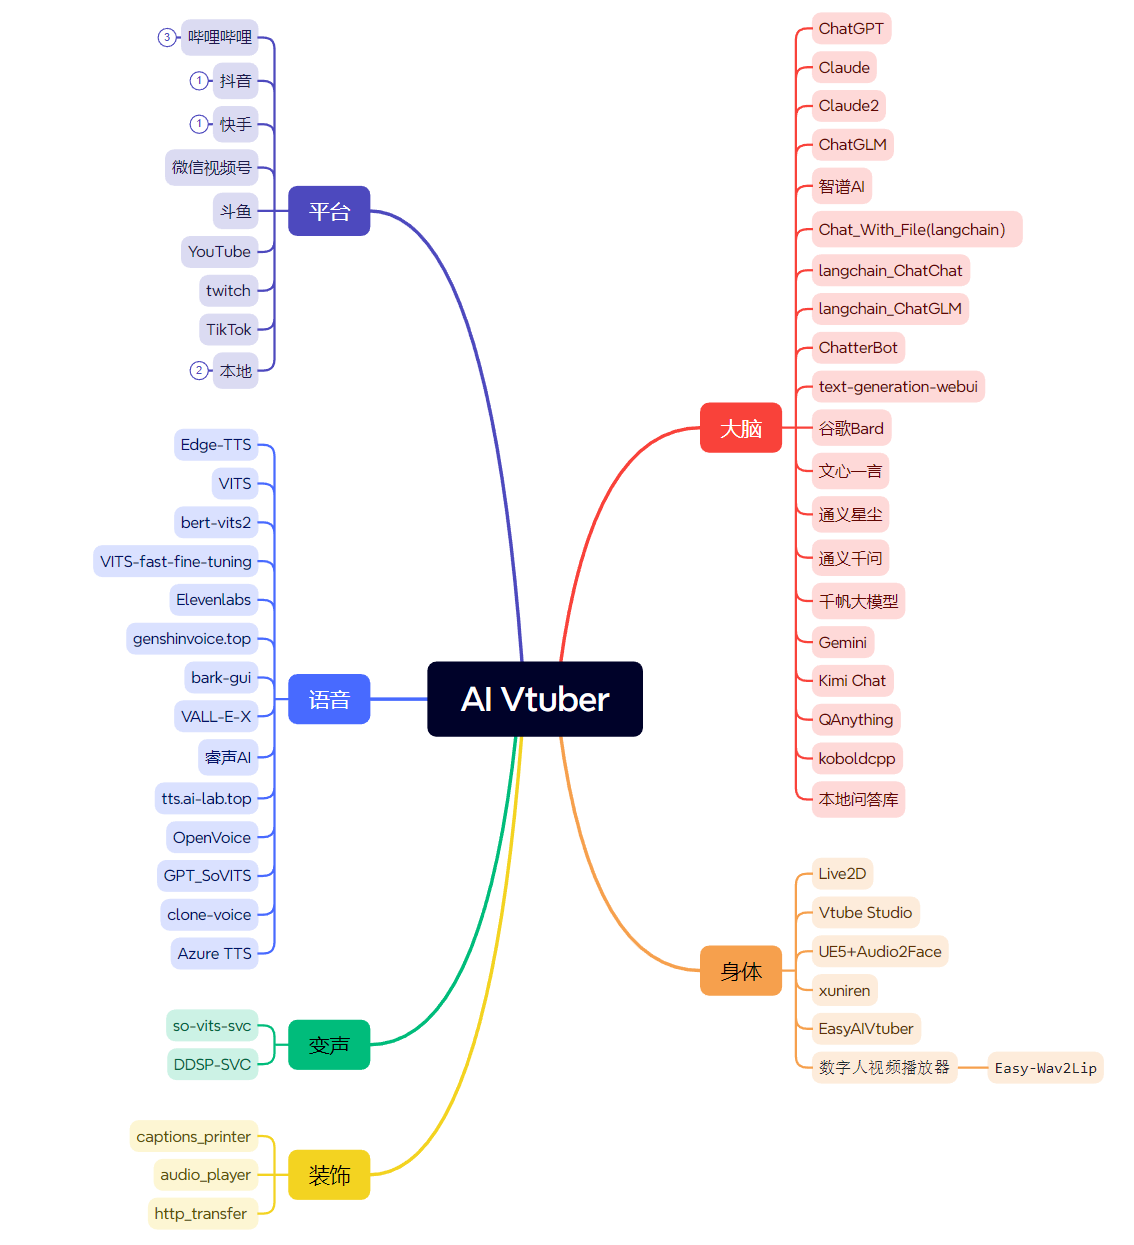
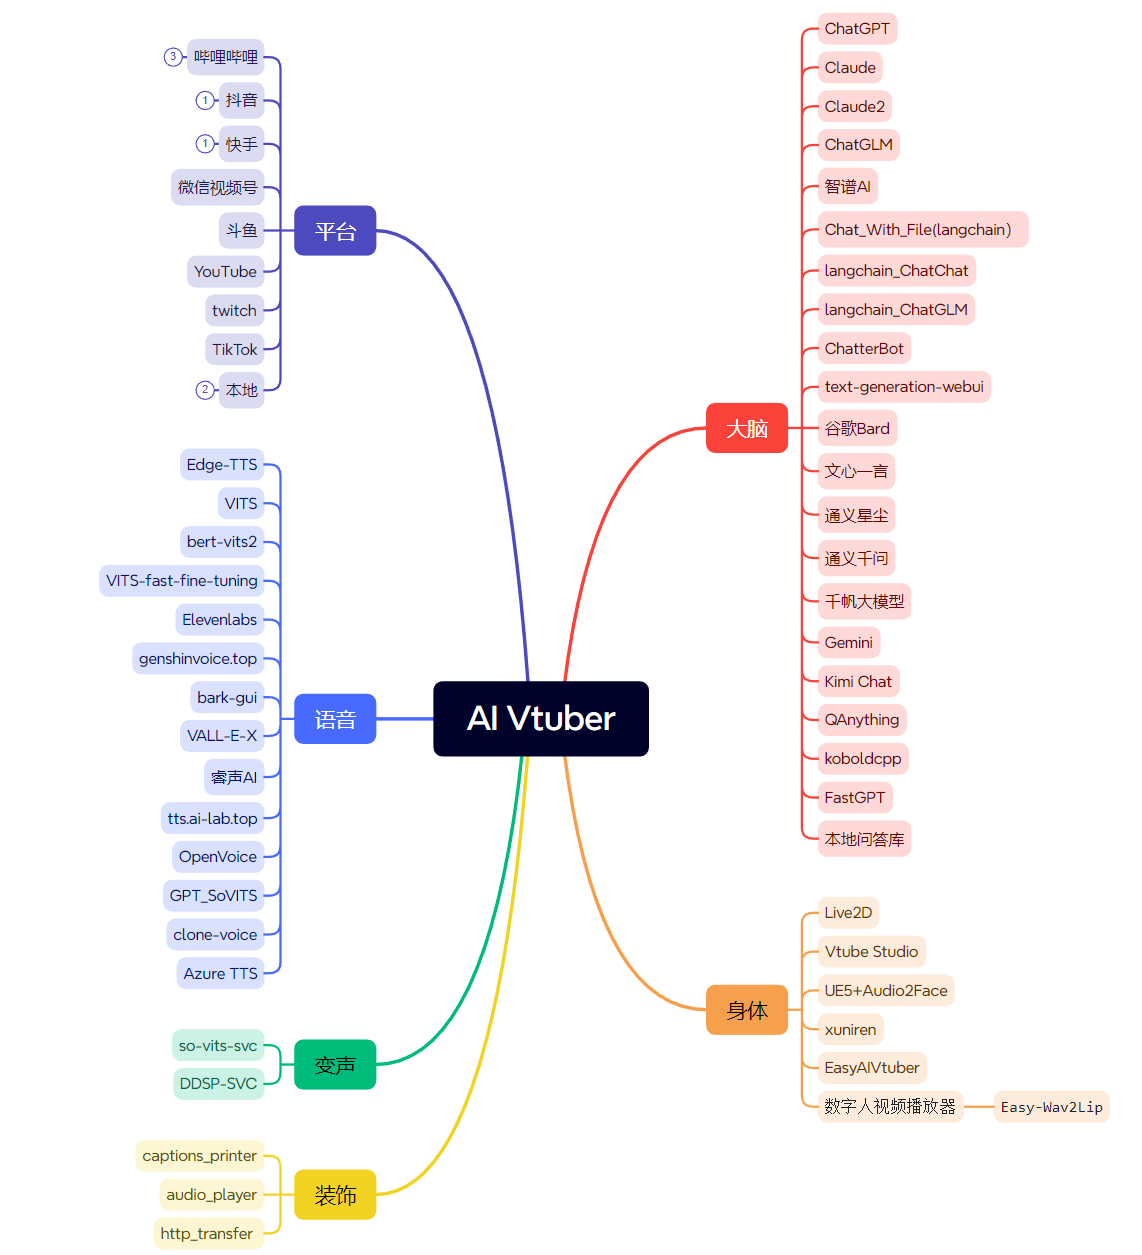
更新FastGPT

diff --git a/docs/index.md b/docs/index.md
@@ -31,7 +31,7 @@ hide:
 
 !!! quote "介绍"
 
-    `Luna AI` 是一款结合了最先进技术的虚拟AI主播。它的核心是一系列高效的人工智能模型，包括 `ChatterBot、GPT、Claude、langchain、chatglm、text-generation-webui、讯飞星火、智谱AI、谷歌Bard、文心一言、通义星尘、通义千问、千帆大模型、Gemini、Kimi Chat、QAnything、koboldcpp`。这些模型既可以在本地运行，也可以通过云端服务提供支持。
+    `Luna AI` 是一款结合了最先进技术的虚拟AI主播。它的核心是一系列高效的人工智能模型，包括 `ChatterBot、GPT、Claude、langchain、chatglm、text-generation-webui、讯飞星火、智谱AI、谷歌Bard、文心一言、通义星尘、通义千问、千帆大模型、Gemini、Kimi Chat、QAnything、koboldcpp、FastGPT`。这些模型既可以在本地运行，也可以通过云端服务提供支持。
 
     `Luna AI` 的外观由 `Live2D、Vtube Studio、xuniren、UE5 结合 Audio2Face、EasyAIVtuber、数字人视频播放器（Easy-Wav2Lip）` 技术打造，为用户提供了一个生动、互动的虚拟形象。这使得 `Luna AI` 能够在各大直播平台，如 `Bilibili、抖音、快手、微信视频号、斗鱼、YouTube、Twitch 和 TikTok`，进行实时互动直播。当然，它也可以在本地环境中与您进行个性化对话。
 
@@ -1603,6 +1603,16 @@ cookie 获取方式：
 3. 打开此插件，点击 Export -> Export as JSON，将复制的Cookies内容保存到文件`cookie`文件夹下的`tongyi.json`  
 
 ps:cookie有效期估计在6小时左右。  
+
+#### FastGPT
+
+##### 在线
+
+官方：[https://doc.fastgpt.in/](https://doc.fastgpt.in/)  
+
+![image](./static/images/luna-ai/fastgpt-1.png)  
+
+![image](./static/images/luna-ai/fastgpt-2.png)  
 
 ### TTS
 
